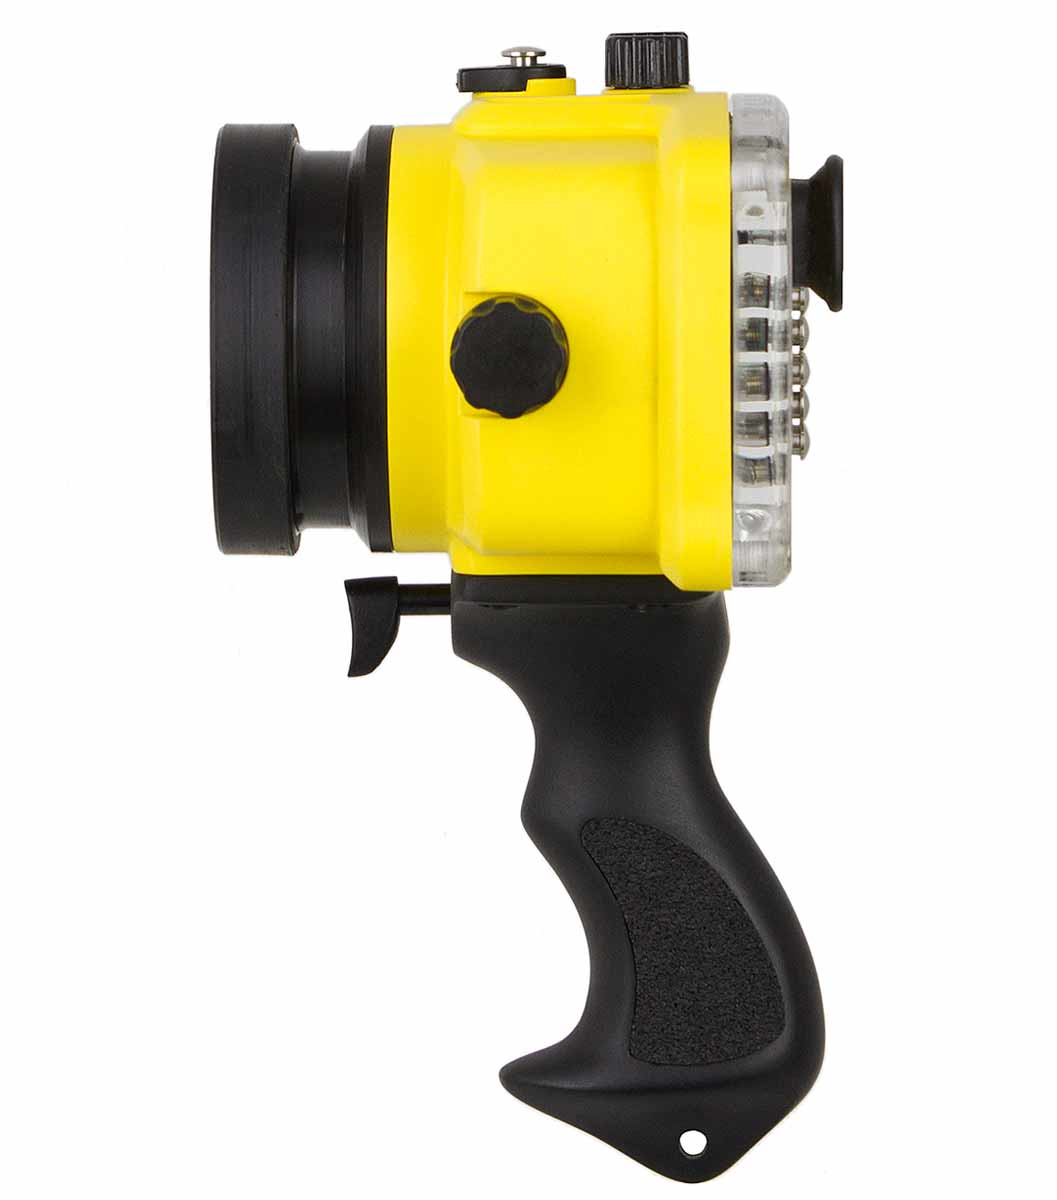
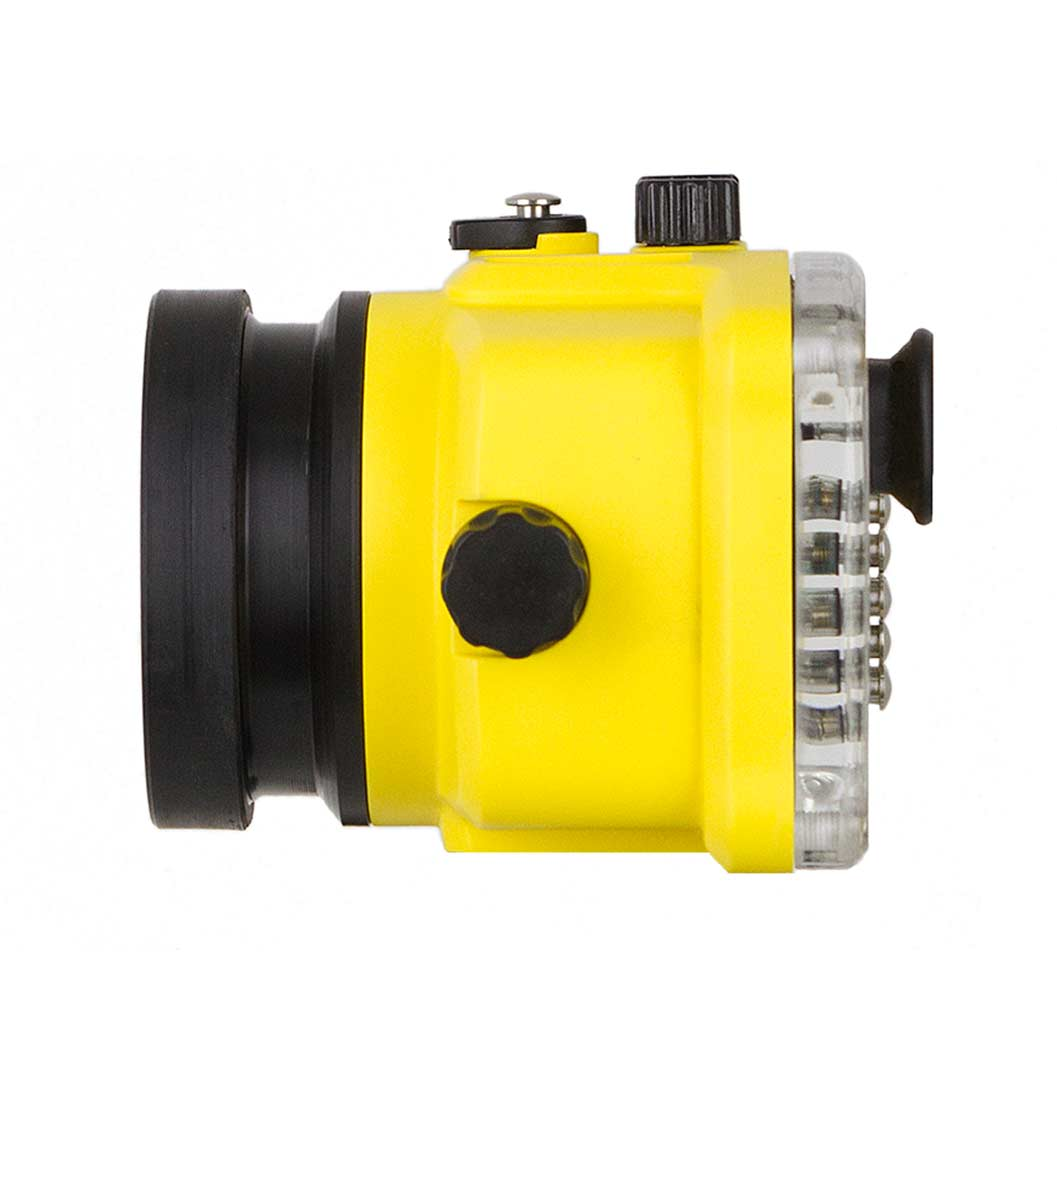
c6000sp II and non sp fixed

diff --git a/_waterhousings/c6000spII.md b/_waterhousings/c6000spII.md
@@ -1,13 +1,13 @@
 ---
 layout: housing
-name: c6000II
+name: c6000spII
 level: professional
-price: 600
+price: 750
 backplate: Sony α6000
 backplate_variants: none # many | none
 status: new # new | sale
 number_of_photos: 4
-photos_dir: c6000II
+photos_dir: c6000spII
 features:
   feature1: ...
   feature2:
@@ -22,7 +22,7 @@ specifications:
    - Polyurethane Body, Ports, Side Grip, Base Plate and Tray.
    - Plexiglas Back Plate.
    - Stainless Steel and Durable Composite Controls.
-   - Polyester Resin and Fiberglass Pistol Grip (optional).
+   - Polyester Resin and Fiberglass Pistol Grip.
   depth_rating: 10m (33ft.)
 controls:
   housing:
@@ -64,8 +64,8 @@ A Plexiglas back plate is secured using 4 recessed and captured hex drive stainl
 
 Flash Control is optional.
 
-The C6000 II package includes the S-LP/55 port and features an interchangeable port system for the Sony lens series.  The S-LP/55 may be exchanged for any of our other Sony ports of equal value or we apply USD 150 credit towards the port of your choice. This water housing uses the S-LP Series Lens Port system.
+The C6000 package includes the S-LP/55 port and features an interchangeable port system for the Sony lens series.  The S-LP/55 may be exchanged for any of our other Sony ports of equal value or we apply USD 150 credit towards the port of your choice. This water housing uses the S-LP Series Lens Port system.
 
-An optional detachable 2-stage pistol grip PGS1 is available USD 150 extra. Because the housing is small, a pistol grip is not essential.
+The detachable 2-stage pistol grip PGS1 is included.
 
 We also have Spare Parts Kits available, please inquire.
